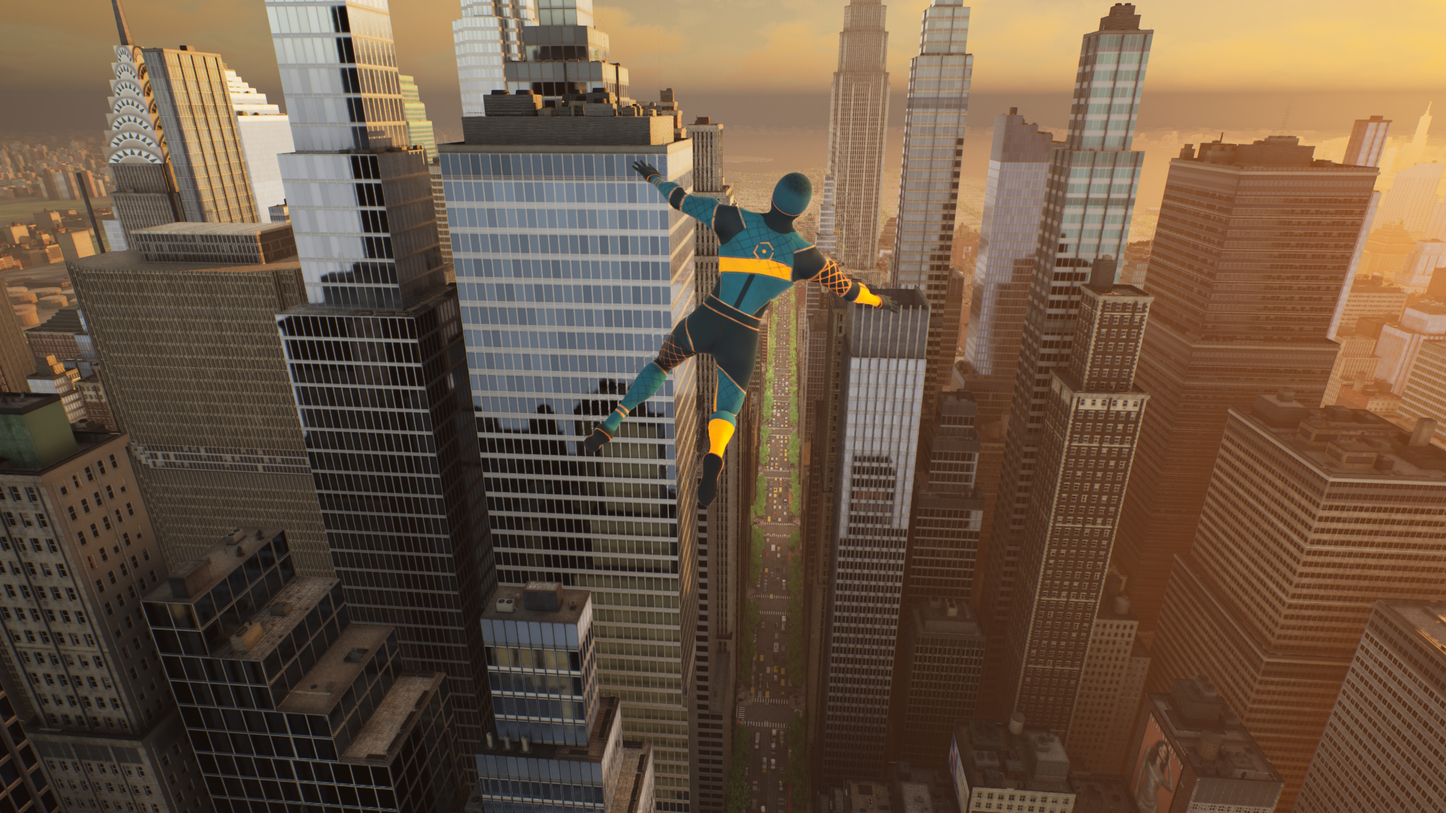
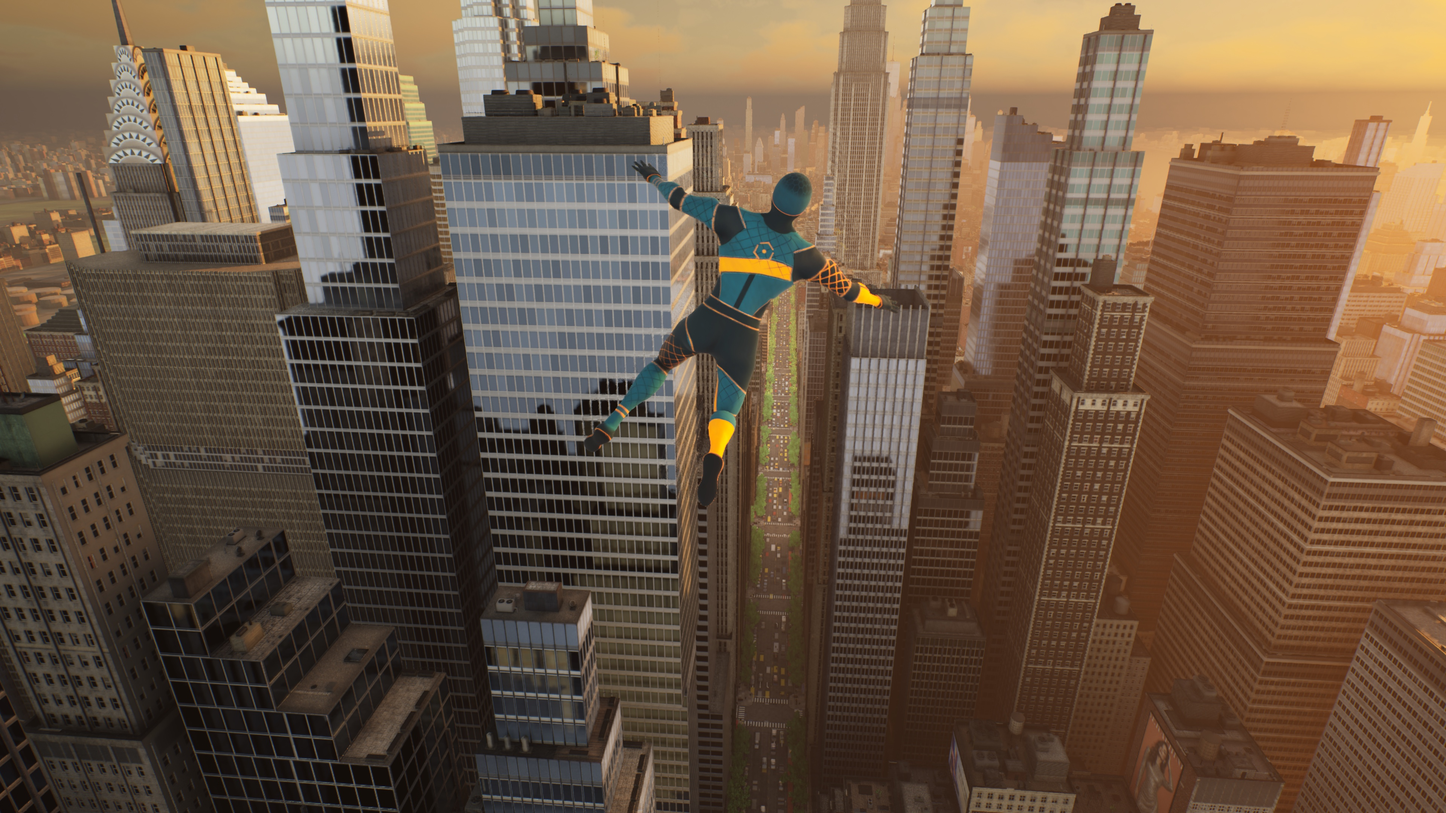
island r03: a1 stills re-shot on the fixed map, street before/after stills, IP gate (31 images, 0 hits), critic pack inputs, README + HANDOFF
Builder: Claude Sonnet 5.5 xhigh via Devin

diff --git a/docs/night1/island/critic_prep_r03.py b/docs/night1/island/critic_prep_r03.py
@@ -67,6 +67,8 @@ P = [
      'note': 'still, 1920x1080: swinging high over an avenue canyon; facades both sides, street layer below'},
     {'id': 's5-rooftops', 'x': still(S + 'r4_wallrun_roofs_t20s_1920x1080.jpg', 'r4_t20', need_fresh=True), 'y': still(REF + '/streets/rooftops-watertowers-golden__nm_0314.jpg', 'ref_rooftops'),
      'note': 'still, 1920x1080: hero on / just above mid-rise roofs (water tanks, bulkheads)'},
+    {'id': 's6-street-level-m2', 'x': still(S + 'street_m2_after_ism_fix_1920x1080.jpg', 'street_m2', need_fresh=True), 'y': still(REF + '/streets/street-walk-taxis__dn_0715.jpg', 'ref_walk_taxis'),
+     'note': 'still, 1920x1080: street level on an avenue block (parked cars, traffic, trees, crosswalk, shop fronts)'},
     # ---- this round vs round 02 (x = round 03)
     {'id': 'p1-same-place-m2', 'x': clip(mine('r5_m2_avenue'), 'r5_p1', 0.0, 10.0), 'y': clip(R2 + '/r2_south_avenue.mp4', 'r02_r2_p1', R02_R2_Y1010, 10.0),
      'note': 'movement, 10 s: the same stretch of avenue (the blocks south of the old detailed area) in two builds, a held swing down the avenue'},

diff --git a/docs/night1/island/round-03/README.md b/docs/night1/island/round-03/README.md
@@ -17,7 +17,7 @@ The director's target: one 30 s swing-held avenue route from y ~1010 over the ne
 | # | defect | evidence | fix |
 |---|---|---|---|
 | A | **the traversal only knows the cells loaded at BeginPlay**: `WebTravWorld::InitWorld` indexes `TActorIterator` once (with the pawn at the PlayerStart, y 178 m), the hero is teleported to the script spawn afterwards, streamed-in cells are never solids | `prims_dump.csv.gz`: 775 solids, facade tiles y -896..1404; 17 telemetry-only sims of 30 s swing chains from y 1010 on that map: last web anchor y <= 1,506 m in every one, then the hero falls to the street; a spawn at y 1700 never webs and lands in 1.67 s | content workaround: always-loaded World Partition streaming source actor `WH_StreamSrc_M2` at (250, 1560) (`Scripts/island_wp_sources.py`): 918 solids, facade / roofs / detail / fire-escape tiles 86 / 86 / 87 / 86 solid (`dump_check_r5.json`). The real fix is traversal's: `../REQUEST-traversal-r03.md` section 0 |
-| B | **street dressing (trees, parked cars, stopped traffic, furniture) existed only within ~1.2 km of the map origin**: all 9,763 per-tile HISM actors were spawned at (0,0,0); their saved World Partition bounds were empty (the instance tree builds asynchronously in the commandlet), so every one sat in the origin cell | M1 control (`street_m1`, y 330) full of cars / trees; M2 probes at y 1250 / 1690 / 1730 / 2000 on both avenues bare; ISM actor descriptors all at the origin | `build_city.py` `spawn_instances`: actors at their tile centre; applied to the built map by `build_manhattan.py --steps ism` (9,763 packages removed, 198,063 instances respawned, 201 s). After: `stills/street_m2_after_ism_fix_1920x1080.jpg` (y 1690: trees, parked cars, taxis, cones) |
+| B | **street dressing (trees, parked cars, stopped traffic, furniture) existed only within ~1.2 km of the map origin**: all 9,763 per-tile HISM actors were spawned at (0,0,0); their saved World Partition bounds were empty (the instance tree builds asynchronously in the commandlet), so every one sat in the origin cell | M1 control (`street_m1`, y 330) full of cars / trees; M2 frames at y 1250 / 1690 / 1730 / 2000 on both avenues bare; the two ISM actor descriptors decoded (one M1, one M2 tile) have empty bounds at (0, 0, 0) | `build_city.py` `spawn_instances`: actors at their tile centre; applied to the built map by `build_manhattan.py --steps ism` (9,763 packages removed, 198,063 instances respawned, 201 s). Before / after, same camera (248, 1690), standing hero, game second 2: `stills/street_m2b_before_ism_fix_1920x1080.jpg` (bare) vs `street_m2b_after_ism_fix_1920x1080.jpg` (trees, parked cars, taxis, a van, shop awnings); also `street_m2_after_ism_fix` ((-2, 1690)) and the M1 control `street_m1_control` ((248, 330)) |
 
 Defect B is why the M2 avenues looked bare (no trees, no cars) even after the street layer arrived, the round-02 critic's gap for y > 1010 (the first M2 probe: lane paint and
 street kit present, no dressing). Everything below is on the fixed map.
@@ -82,8 +82,8 @@ while the frames were moved to the SD card; the move was finished by hand in par
 | city_pass1 resumed: mesh (419 remaining) 4,325 + kit (272 tiles, ~20 s each: 3 distance-field builds per mesh) 5,360 + fsky/map/coll ~490 + **wp 1,610 (boxes 973)** | 11,869 |
 | build_manhattan map step | 34 |
 | 2026-10-03 `--steps map` (classic maps + WP player start + `WH_StreamSrc_M2`; the editor rebuilt distance fields of the classic geometry level) | 429 |
-| 2026-10-03 `--steps ism`: 9,763 per-tile ISM packages removed, respawned at their tile centres (198,063 instances), saved | 206 (commandlet 201) |
-| 2026-10-03 `island_wp_sources.py` alone (commandlet) | ~60 |
+| 2026-10-03 `--steps ism`: 9,763 per-tile ISM packages removed, respawned at their tile centres (198,063 instances), saved | 261 (commandlet 255.5: ~55 s start-up, spawn 127 s, save) |
+| 2026-10-03 `island_wp_sources.py` alone (commandlet) | ~90 (commandlet: 18 s to the map, 15 s to save, start-up) |
 Content: 1.5 GB (`du -sh unreal/WebHomage/Content`). Internal disk >= 273 GB free throughout (exports / frames on the SD card).
 Long poles: the double static-mesh build per mesh (import, then `finish_mesh` collision / Nanite settings rebuild) and distance fields.
 
@@ -129,6 +129,12 @@ it (fire-escape decks: the 20 overlap frames), lands on a deck at 41 m and conti
 nothing is phantom or hollow there (I5). The steering away from the avenue is traversal behaviour (`../REQUEST-traversal-r03.md`); the
 route script was not changed to dodge it.
 
+## Blind critic pack (not judged by the builder)
+`/Users/midir/sm2-n1/_scratch/critic-A-r03/pack` (key `pack.key.json` beside it, inputs `pairs.json`, sources `src/`; built by `../critic_prep_r03.py` then `abpack.py <pack> <pairs.json> .`):
+14 pairs, both sides of every pair the same pixel size (1920x1080 or 2048x1152 before abpack's 84 % crop): v1-v4 the four M1 routes vs the matching real-game clips, v2 uses r5 (16-24 s),
+s1-s6 stills (a1 north / south re-shot on the fixed map, r5 t20 / t12, r4 roofs, M2 street level), p1-p4 this round vs round 02 (r5 vs the round-02 r2 over the same blocks, a1 north / south, r2 chain).
+The round-02 critic's open items this pack can show: M2 street layer and dressing (s3 / s4 / s6 / p1), streaming-free continuity (s1 / s2 / p2 / p3).
+
 ## Files
 `r1_north_avenue.mp4`, `r2_south_avenue.mp4`, `r3_crosstown_east.mp4`, `r4_wallrun_roofs.mp4` (1920x1080 60 fps, H.264 2-pass,
 <= 14.7 MB), `*_telemetry.csv`, `*_log_excerpt.txt`, `stills/` (contact frames 5/12/20/26/28 s; a1 3840x2160), `route_check_r*.json`,
@@ -136,8 +142,7 @@ route script was not changed to dodge it.
 `build_timings_island.json`, `gpu_hold_*.json`.
 2026-10-03 additions: `r5_m2_avenue.mp4` (+ telemetry, log excerpt), `route_check_r5.json`, `r5_check.json` (pass lines + road band), `r5_search.json` (every sim of the route
 search and the map state it ran on), `dump_check_r5.json` (traversal primitive dump with the stream source: 918 solids), `stills/r5_m2_avenue_t*s_1920x1080.jpg`,
-`stills/street_m2_after_ism_fix_1920x1080.jpg` (street level at (-2, 1690), y 1690 m, after the ISM fix; the same spot before it was bare), `stills/street_m2_before_ism_fix_1920x1080.jpg`
-and `stills/street_m1_control_1920x1080.jpg` (same camera at (248, 330), M1: full dressing), `ip_gate.json` (OCR gate over the round's stills, `../ip_gate_r03.py`),
+`stills/street_m2b_before_ism_fix_1920x1080.jpg` / `street_m2b_after_ism_fix_1920x1080.jpg` (same camera at (248, 1690), bare vs dressed), `street_m2_after_ism_fix_1920x1080.jpg` ((-2, 1690)), `street_m1_control_1920x1080.jpg` ((248, 330), M1), `ip_gate.json` (OCR gate over the round's stills, `../ip_gate_r03.py`),
 `stills/a1_*` (re-shot 2026-10-03 on the fixed map). Captures of 2026-10-02 (r1-r4) are unchanged: the final map reproduces their telemetry to 0.0000 m.
 
 Honest slips this session (also in `../HANDOFF.md`): two engines of mine ran together for ~2 minutes at 12:26 (a still and a Python diagnostic launched from two shells; the diagnostic
